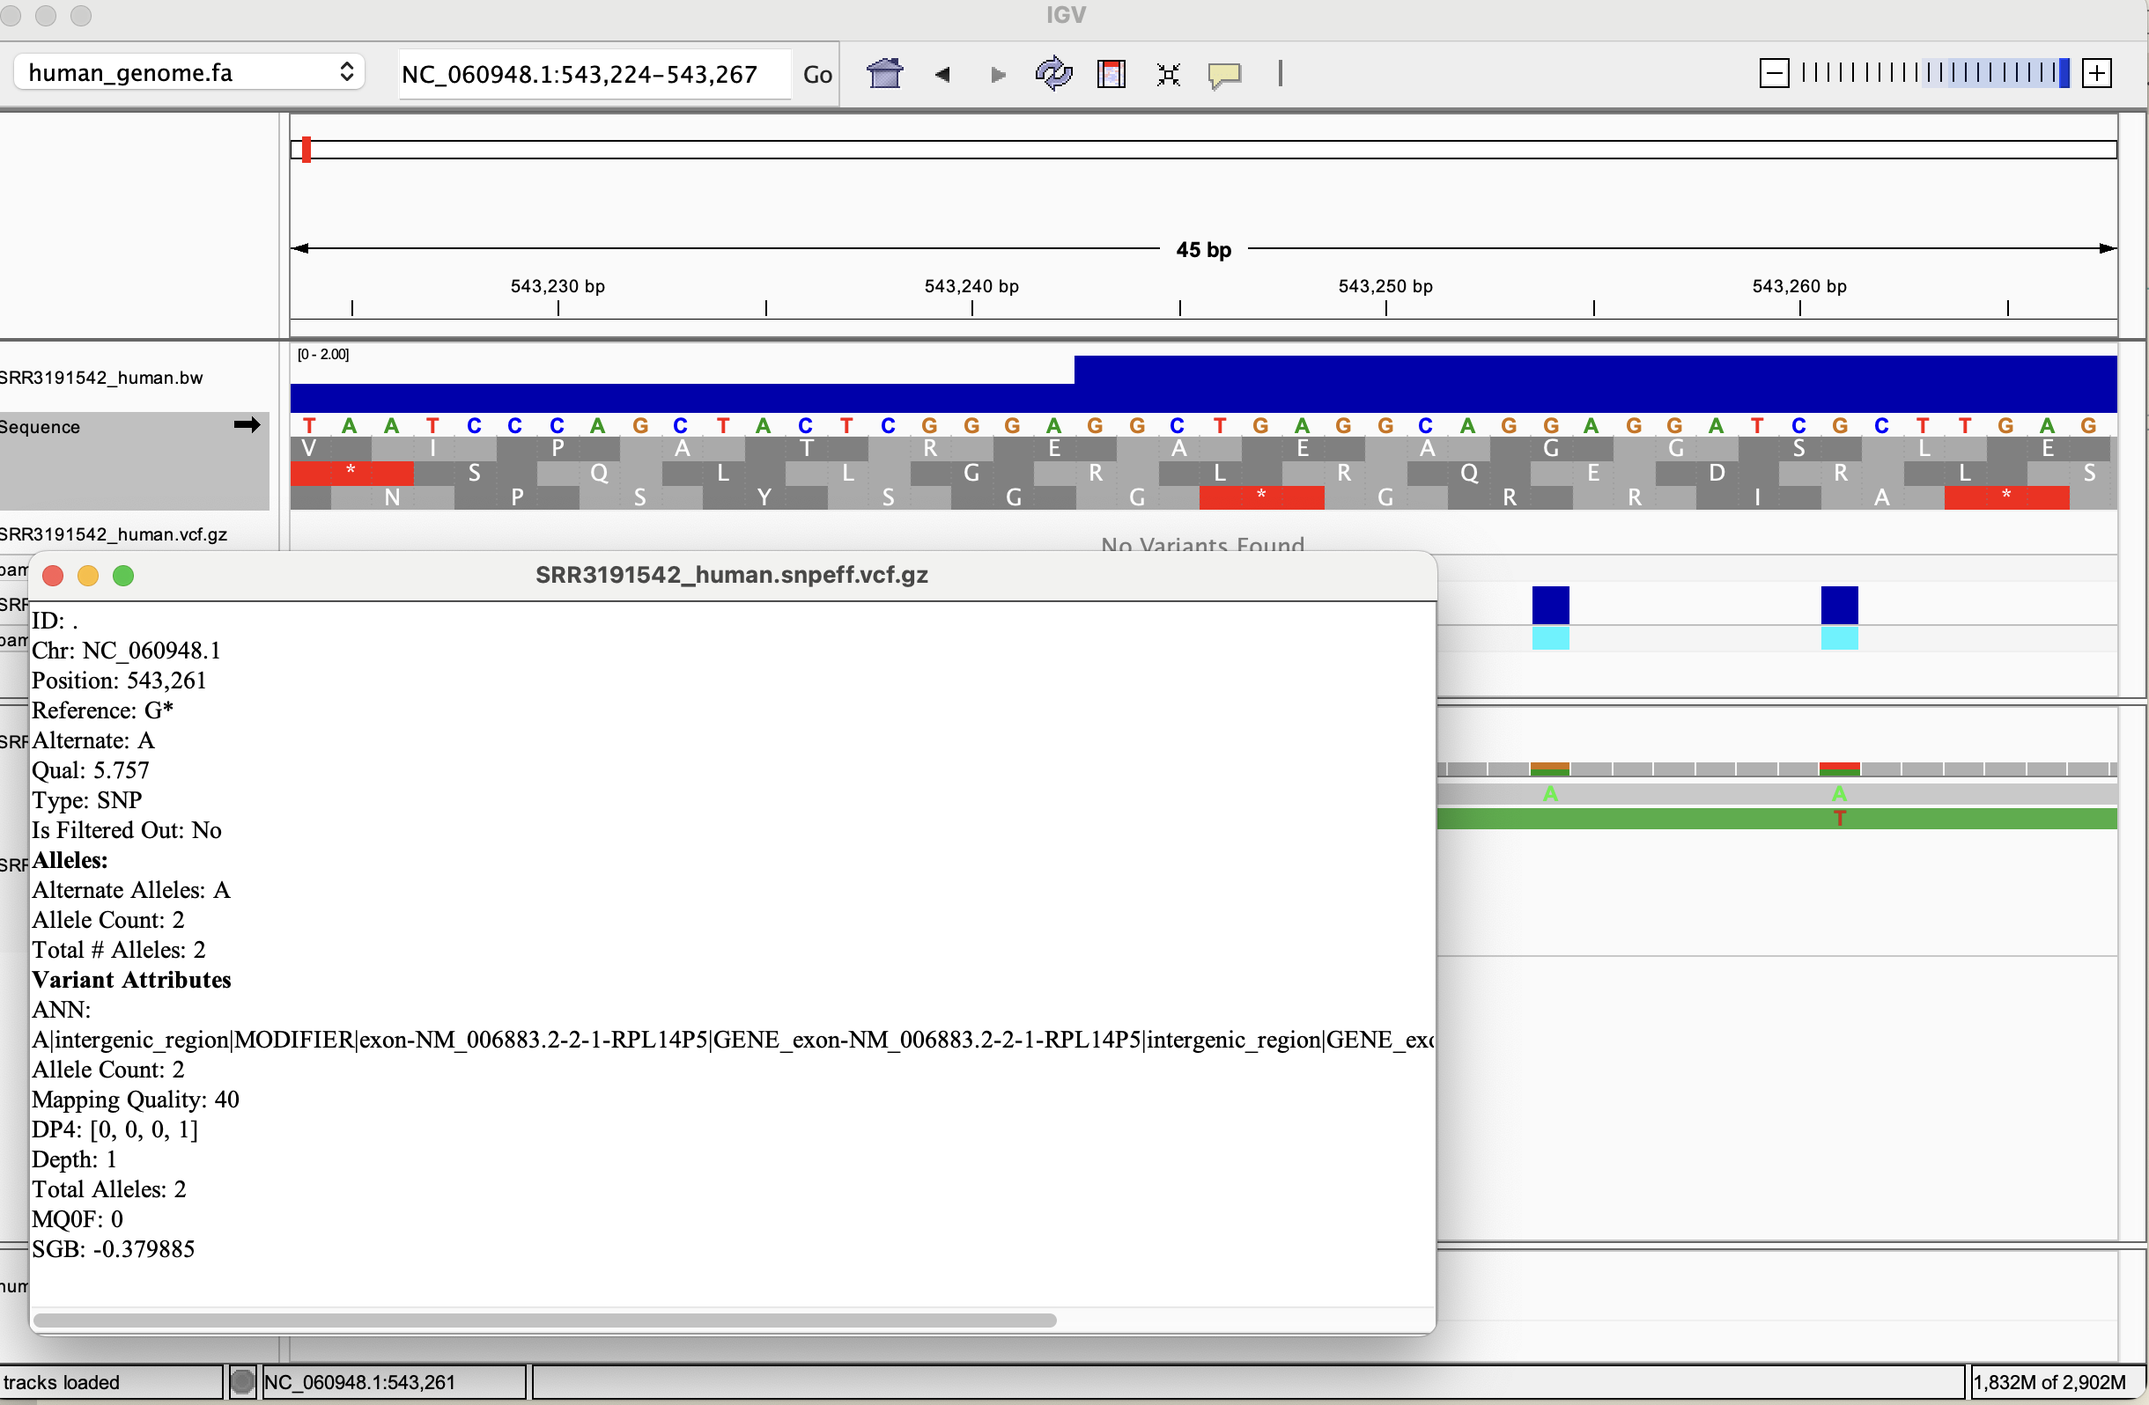
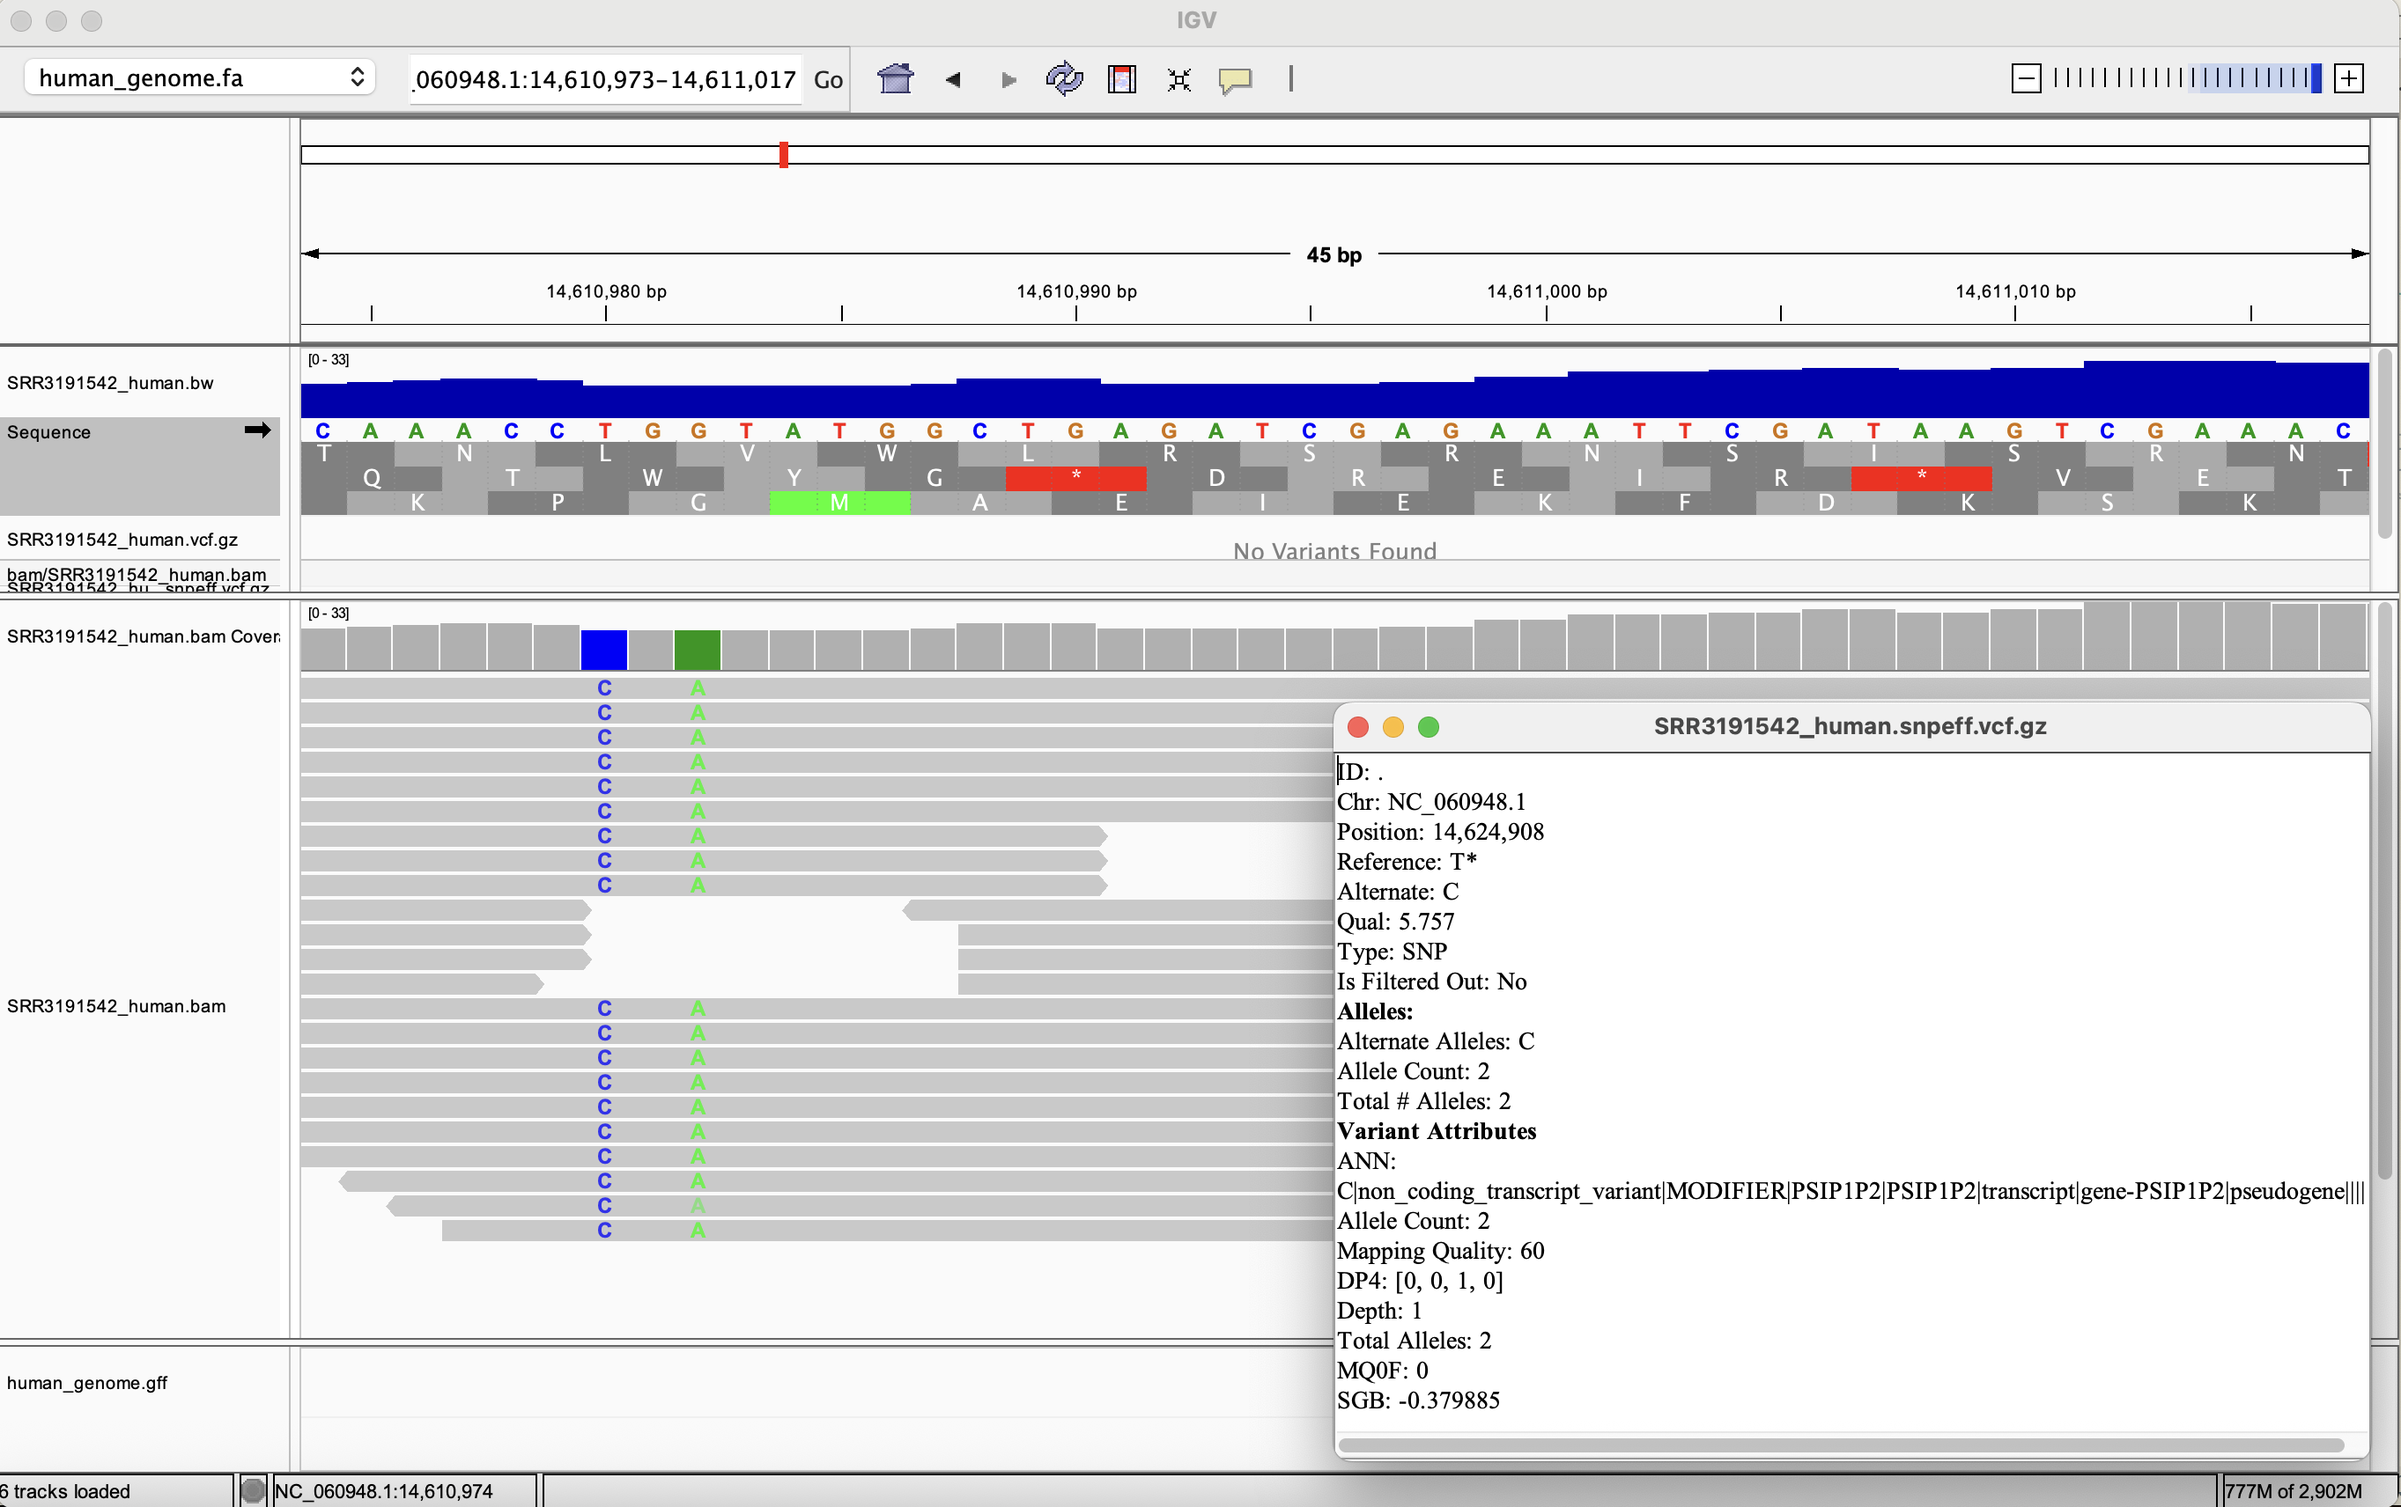
update

diff --git a/Week11/README.md b/Week11/README.md
@@ -4,8 +4,8 @@ run snpEFF to provide variant effect annotations.
 ### workflow:
 Make a design file from the BioProject accession.
 Download and index the reference (FASTA + GFF).
-readsvcf → for each SRR: download FASTQ → align → make bigwig → call variants.
-snpeff_build → build a custom snpEff database from that reference.
+get vcf files for each SRR: download FASTQ → align → make bigwig → call variants.
+snpeff_build to build a custom snpEff database from that reference.
 snpeff_run (or parallelized version) → annotate each VCF with snpEff.
 
 ### 1. Prepare design file 
@@ -77,14 +77,13 @@ cat design.csv | \
 
 the reference fasta file, bam files (SRR3191542),SRR3191542.vcf.snpeff.vcf.gz file were loaded to IGV for visualization 
 
-variant 1: SNP (C→A) at NC_060948.1:27,207,584
-low-confidence intergenic SNP
-It’s supported by only 2 reads (1 ref, 1 alt) and has a very low QUAL (~5.7), so normally filtered out or at least not interpret it biologically. snpEff calls it a MODIFIER in an intergenic region, i.e. no predicted coding effect.
+variant 1: At NC_060948.1:14,624,908 
+we see a T→C SNP supported by a single, well-mapped read (MQ 60) but with low variant quality (QUAL ~5.8). snpEff annotates it as a non-coding transcript / pseudogene MODIFIER, so there’s no predicted functional impact. Because depth=1, this variant should be treated as low confidence and would normally be filtered out.
 
 <img src="img2.png" alt="image" width="800">
 
-variant 2: A→T SNP at NC_060948.1:14,377,257
- with high QUAL but very low depth (2 reads). snpEff annotates it as an intron_variant/MODIFIER in many overlapping transcripts, so there’s no predicted protein effect; under standard depth filtering this would likely be dropped
+variant 2: At NC_060948.1:14,610,982
+ we detected a G→A SNP with strong support (DP=10, QUAL≈201, alt on both strands). snpEff annotates it as a missense_variant (MODERATE) in the TMSB4Y transcript (NM_004202.3), indicating an amino-acid change in a protein-coding exon. This is a high-confidence, potentially functional variant, unlike the low-depth intergenic/intronic calls elsewhere.
 
 <img src="img3.png" alt="image" width="800">
 
